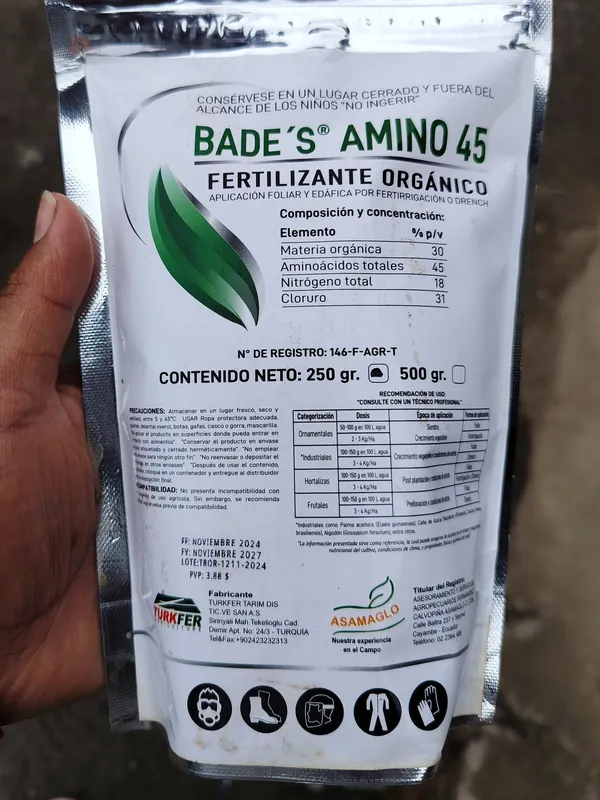
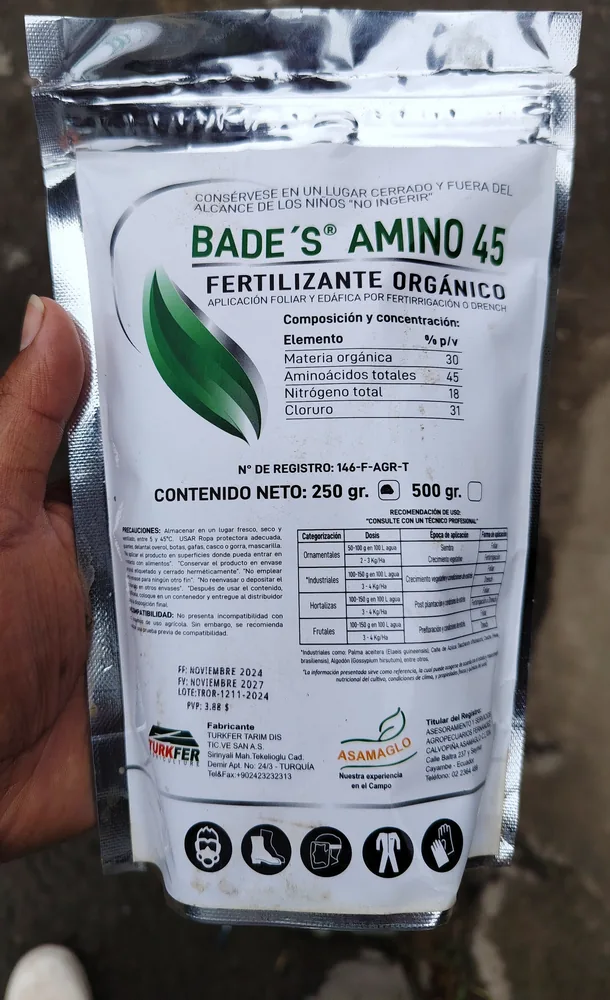
Muestra los envases completos en las tarjetas de producto
Claude-Session: https://claude.ai/code/session_015FjJBnbVwCTg1udK8w2tqK

diff --git a/index.html b/index.html
@@ -247,12 +247,14 @@ ul{margin:0;padding:0;list-style:none}
 .card-brand{display:inline-flex;align-items:center;gap:6px;font-size:.78rem;font-weight:700;color:var(--ink-3)}
 .card-brand svg{width:14px;height:14px;color:var(--leaf-500)}
 .card-media.photo{background:#e9e4d3}
+.card-media.photo::after{content:"";position:absolute;inset:-30px;background:var(--bgimg) center/cover;filter:blur(22px) saturate(1.1) brightness(.92);opacity:.85}
 .card-media.photo::before{display:none}
-.card-media.photo img{inset:0;left:0;bottom:auto;width:100%;height:100%;object-fit:cover;transform:none;-webkit-mask-image:none;mask-image:none}
-.card:hover .card-media.photo img{transform:scale(1.04)}
+.card-media.photo img{z-index:1;inset:12px;left:12px;bottom:auto;width:calc(100% - 24px);height:calc(100% - 24px);object-fit:contain;transform:none;-webkit-mask-image:none;mask-image:none;filter:drop-shadow(0 12px 18px rgba(0,0,0,.35))}
+.card-media.photo .badge{z-index:2}
+.card:hover .card-media.photo img{transform:scale(1.03)}
 .card-media.photo .badge{box-shadow:0 2px 10px rgba(0,0,0,.18)}
 .m-media.photo{padding:24px 24px 90px}
-.m-media.photo img{width:100%;max-width:440px;height:auto;max-height:min(62svh,600px);object-fit:cover;border-radius:20px;box-shadow:var(--shadow-2);-webkit-mask-image:none;mask-image:none}
+.m-media.photo img{width:100%;max-width:440px;height:auto;max-height:min(62svh,600px);width:auto;max-width:100%;object-fit:contain;border-radius:20px;box-shadow:var(--shadow-2);-webkit-mask-image:none;mask-image:none}
 .card-type{font-size:.8rem;font-weight:800;letter-spacing:.04em;text-transform:uppercase;color:var(--accent)}
 .card-body p{font-size:.94rem;color:var(--ink-2)}
 .meta{display:flex;gap:8px;flex-wrap:wrap;margin-top:auto;padding-top:6px}
@@ -1343,7 +1345,7 @@ function renderGrid(){
     (!query || norm([p.name, p.brand, p.type, p.short, p.tags, p.comp.map(c=>c[0]).join(' ')].join(' ')).includes(query)));
   $('#grid').innerHTML = list.length ? list.map(p => `
     <article class="card" style="--accent:${p.accent}">
-      <div class="card-media${p.photo ? ' photo' : ''}">
+      <div class="card-media${p.photo ? ' photo' : ''}"${p.photo ? ` style="--bgimg:url('assets/productos/${p.id}.webp')"` : ''}>
         <span class="badge">${LINES[p.line[0]].short}</span>
         ${p.organic ? '<span class="badge alt">Orgánico · natural</span>' : ''}
         ${img(p)}
